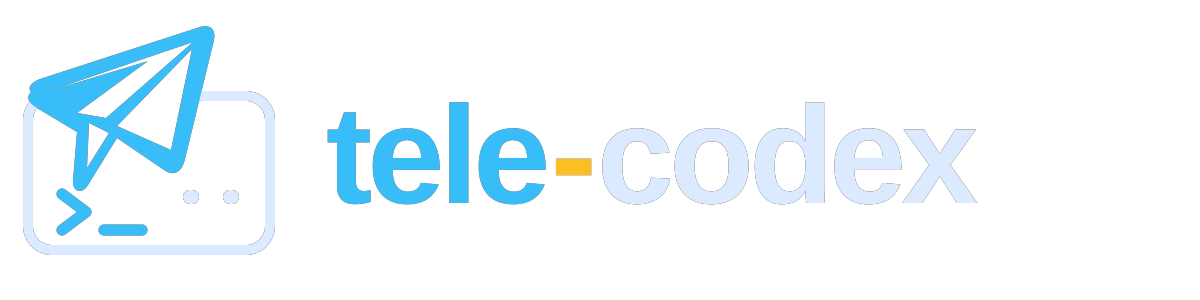
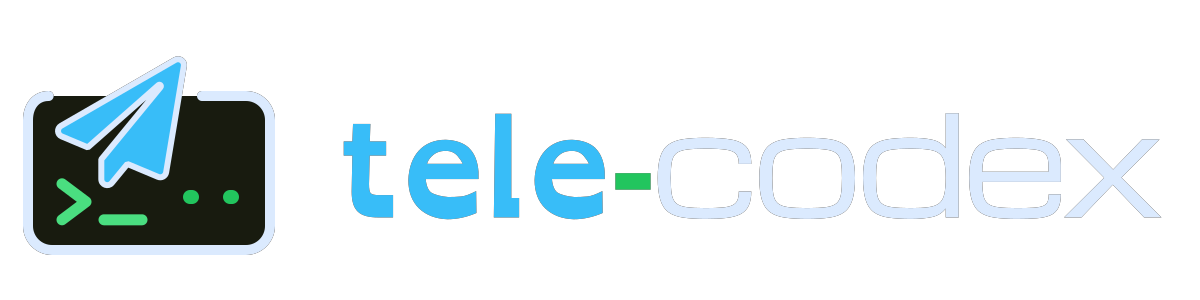
fix(brand): use supplied wordmark geometry
The earlier theme sources diverged from the accepted logo. Keep the supplied light SVG unchanged and derive the dark version through colour substitutions only.

Changed region(s): [[0.0, 0.09, 0.9867, 0.84]]

diff --git a/test/documentation.test.ts b/test/documentation.test.ts
@@ -28,6 +28,14 @@ describe("README documentation", () => {
     }
   });
 
+  it("keeps the same geometry in both colour variants", async () => {
+    const light = await read("assets/brand/tele-codex-wordmark-light.svg");
+    const dark = await read("assets/brand/tele-codex-wordmark-dark.svg");
+
+    expect(svgGeometry(dark)).toEqual(svgGeometry(light));
+    expect(dark).not.toBe(light);
+  });
+
   it("links useful badges to their canonical sources", async () => {
     const readme = await read("README.md");
 
@@ -64,4 +72,12 @@ async function readBinary(path: string): Promise<Buffer> {
 
 function matches(input: string, pattern: RegExp): string[] {
   return [...input.matchAll(pattern)].map((match) => match[1]!).filter(Boolean);
+}
+
+function svgGeometry(input: string): { viewBox: string; paths: string[]; transforms: string[] } {
+  return {
+    viewBox: /viewBox="([^"]+)"/.exec(input)?.[1] ?? "",
+    paths: matches(input, /<path\b[^>]*\bd="([^"]+)"/g),
+    transforms: matches(input, /\btransform="([^"]+)"/g)
+  };
 }
